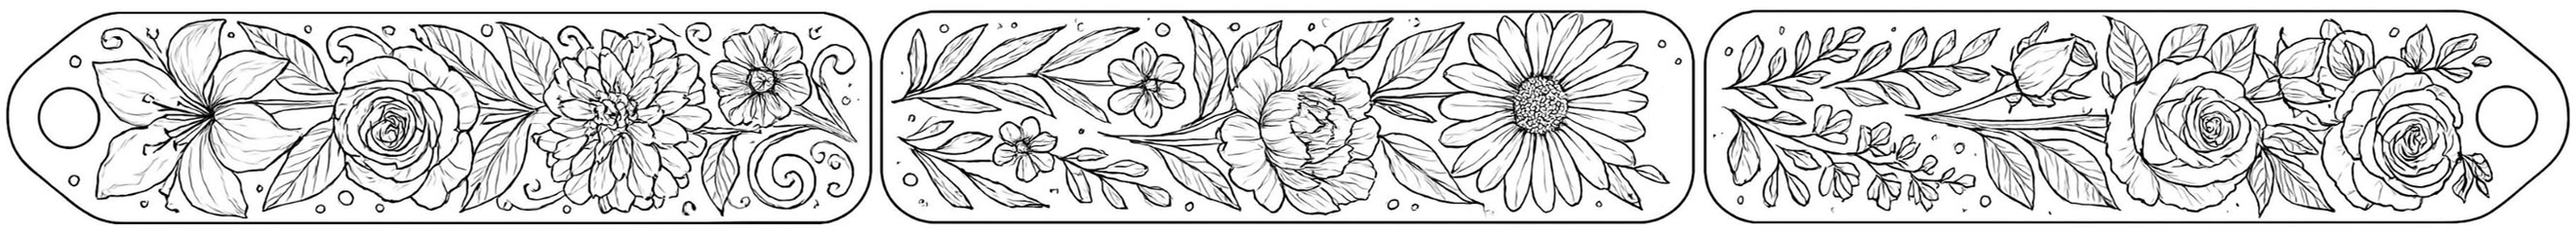
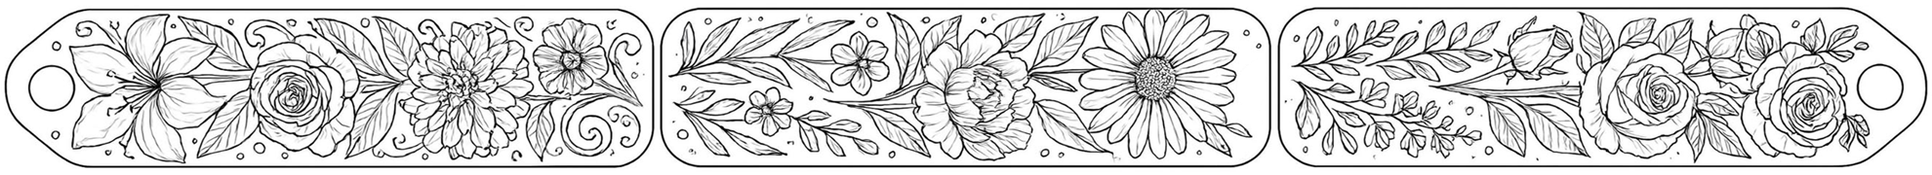
first full structure

Changed region(s): [[0.6778, 0.0278, 0.9551, 0.0556], [0.9242, 0.7222, 0.9551, 0.75]]

diff --git a/app/components/timeline/index.vue b/app/components/timeline/index.vue
@@ -1,5 +1,10 @@
 <template>
-    <h1>SUMMARY</h1>
+
+    <h1>
+        <img class="header-img" src="../../assets/Icon_Calendar.png">
+        SUMMARY
+    </h1>
+
     <div class="timeline-grid">
 
         <img class="icon-img" :src=iconPorto>
@@ -41,24 +46,23 @@
 </template>
 
 <script>
-    export default {
-        data() {
-            return {
-                circleImg: "_nuxt/assets/Handdrawn_Circle_Filled.png",
-                circleSize: 30,
-                starImg: "_nuxt/assets/Handdrawn_Star.png",
-                starSize: 50,
-                iconPorto: "_nuxt/assets/Icon_Porto.png",
-                iconBus: "_nuxt/assets/Icon_Bus.png",
-                iconRings: "_nuxt/assets/Icon_Rings.png",
-                iconQuinta: "_nuxt/assets/Icon_Quinta.png",
-            }
+export default {
+    data() {
+        return {
+            circleImg: "_nuxt/assets/Handdrawn_Circle_Filled.png",
+            circleSize: 30,
+            starImg: "_nuxt/assets/Handdrawn_Star.png",
+            starSize: 50,
+            iconPorto: "_nuxt/assets/Icon_Porto.png",
+            iconBus: "_nuxt/assets/Icon_Bus.png",
+            iconRings: "_nuxt/assets/Icon_Rings.png",
+            iconQuinta: "_nuxt/assets/Icon_Quinta.png",
         }
     }
+}
 </script>
 
 <style scoped>
-
 .timeline-grid {
     display: grid;
     grid-template-columns: auto 1fr;
@@ -97,5 +101,17 @@
     --size-timeline-icon: 80px;
     width: var(--size-timeline-icon);
     mix-blend-mode: multiply;
+}
+h1 {
+    font-weight: bold;
+    font-size: x-large;
+    display: flex;
+    flex-direction: row;
+    align-items: center;
+    gap: 0.5rem;
+}
+.header-img {
+    mix-blend-mode: multiply;
+    width: var(--size-timeline-star);
 }
 </style>

diff --git a/app/app.vue b/app/app.vue
@@ -1,13 +1,20 @@
 <template>
   <div class="page">
-    <Timeline/>
-    <GuestForm/>
+    <welcome-page/>
+    <img class="transition-flowers" src="./assets/Flower_pattern_2.png">
+
+    <timeline/>
+    <img class="transition-flowers" src="./assets/Flower_pattern_2.png">
+
+    <schedule/>
+    <img class="transition-flowers" src="./assets/Flower_pattern_2.png">
+
+    <guest-form/>
+    <img class="transition-flowers" src="./assets/Flower_pattern_2.png">
   </div>
 </template>
 
 <script>
-import Timeline from "./components/Timeline.vue";
-import GuestForm from "./components/GuestForm.vue";
 </script>
 
 <style>
@@ -17,18 +24,22 @@ html, body {
 }
 
 .page {
-    padding-top: 1rem;
+  padding-top: 1rem;
 
-    min-height: 100vh;
-    display: flex;
-    flex-direction: column;
-    align-items: center;
-    gap: 1rem;
+  min-height: 100vh;
+  display: flex;
+  flex-direction: column;
+  align-items: center;
+  gap: 1rem;
 
-    background-image: url('@/assets/PaperTex.png');
-    background-size: cover;
-    background-repeat: repeat;
-    background-attachment: scroll;
-    background-position: center;
+  background-image: url('@/assets/PaperTex.png');
+  background-size: cover;
+  background-repeat: repeat;
+  background-attachment: scroll;
+  background-position: center;
+}
+
+.transition-flowers {
+  mix-blend-mode: multiply;
 }
 </style>

diff --git a/app/components/guest-form/index.vue b/app/components/guest-form/index.vue
@@ -1,17 +1,17 @@
 <template>
     <div class="form-container">
-        <PaperTextArea
+        <paper-text-area
             labelText="Your name"
             :has-error="textAnswer.error"
             v-model="textAnswer.response"
         />
-        <RadioChoices
+        <radio-choices
             labelText="Question?"
             :radio-options="['Yes', 'No']"
             :has-error="radioAnswer.error"
             v-model="radioAnswer.response"
         />
-        <HandDrawnButton
+        <hand-drawn-button
             :button-text="getButtonText()"
             :loading="sending"
             :disabled="sent && success"
@@ -22,6 +22,9 @@
 
 <script>
 import emailjs from '@emailjs/browser'
+import HandDrawnButton from './HandDrawnButton.vue';
+import PaperTextArea from './PaperTextArea.vue';
+import RadioChoices from './RadioChoices.vue';
 
 class Answer {
   constructor(required) {
@@ -35,6 +38,11 @@ class Answer {
 }
 
 export default {
+    components: {
+        HandDrawnButton,
+        PaperTextArea,
+        RadioChoices,
+    },
     setup() {
         const config = useRuntimeConfig()
         return { config }

diff --git a/app/components/Schedule.vue b/app/components/Schedule.vue
@@ -1,0 +1,49 @@
+<template>
+    <div class="schedule-container">
+        <h1>July 8th</h1>
+        <h2>Welcome to Porto!</h2>
+        <span>blabla</span>
+
+        <img class="between-days" src="../assets/Flower_pattern_1b.png">
+
+        <h1>July 9th</h1>
+        <h2>Subtitle</h2>
+        <span>blabla</span>
+
+        <img class="between-days" src="../assets/Flower_pattern_1b.png">
+
+        <h1>July 10th</h1>
+        <h2>The Ceremony</h2>
+        <span>blabla</span>
+
+        <img class="between-days" src="../assets/Flower_pattern_1b.png">
+
+        <h1>July 11th</h1>
+        <h2>The day after</h2>
+        <span>blabla</span>
+
+        <img class="between-days" src="../assets/Flower_pattern_1b.png">
+
+        <h1>July 11th</h1>
+        <h2>Chill day in Porto</h2>
+        <span>blabla</span>
+    </div>
+</template>
+
+<script>
+
+</script>
+
+<style scoped>
+.schedule-container {
+    display: flex;
+    flex-direction: column;
+    align-items: center;
+    gap: 1rem;
+}
+.between-days {
+    width: 80%;
+    mix-blend-mode: multiply;
+    opacity: 50%;
+}
+</style>

diff --git a/app/components/guest-form/RadioChoices.vue b/app/components/guest-form/RadioChoices.vue
@@ -1,6 +1,6 @@
 <template>
     <div class="radio-list">
-        <FormLabel
+        <form-label
             :label-text="labelText"
             :has-error="hasError"
         />
@@ -12,7 +12,11 @@
 </template>
 
 <script>
+import FormLabel from './FormLabel.vue';
 export default {
+    components: {
+        FormLabel
+    },
     data() {
       return {
         picked: ''

diff --git a/app/components/guest-form/PaperTextArea.vue b/app/components/guest-form/PaperTextArea.vue
@@ -1,6 +1,6 @@
 <template>
     <div>
-        <FormLabel
+        <form-label
             :label-text="labelText"
             :has-error="hasError"/>
 
@@ -25,7 +25,12 @@
 </template>
 
 <script>
+import FormLabel from './FormLabel.vue';
+
 export default {
+    components: {
+        FormLabel
+    },
     data() {
       return {
         userText: ''

diff --git a/app/components/WelcomePage.vue b/app/components/WelcomePage.vue
@@ -1,0 +1,12 @@
+<template>
+    <div>
+        Welcome page
+    </div>
+</template>
+
+<script>
+
+</script>
+
+<style scoped>
+</style>
